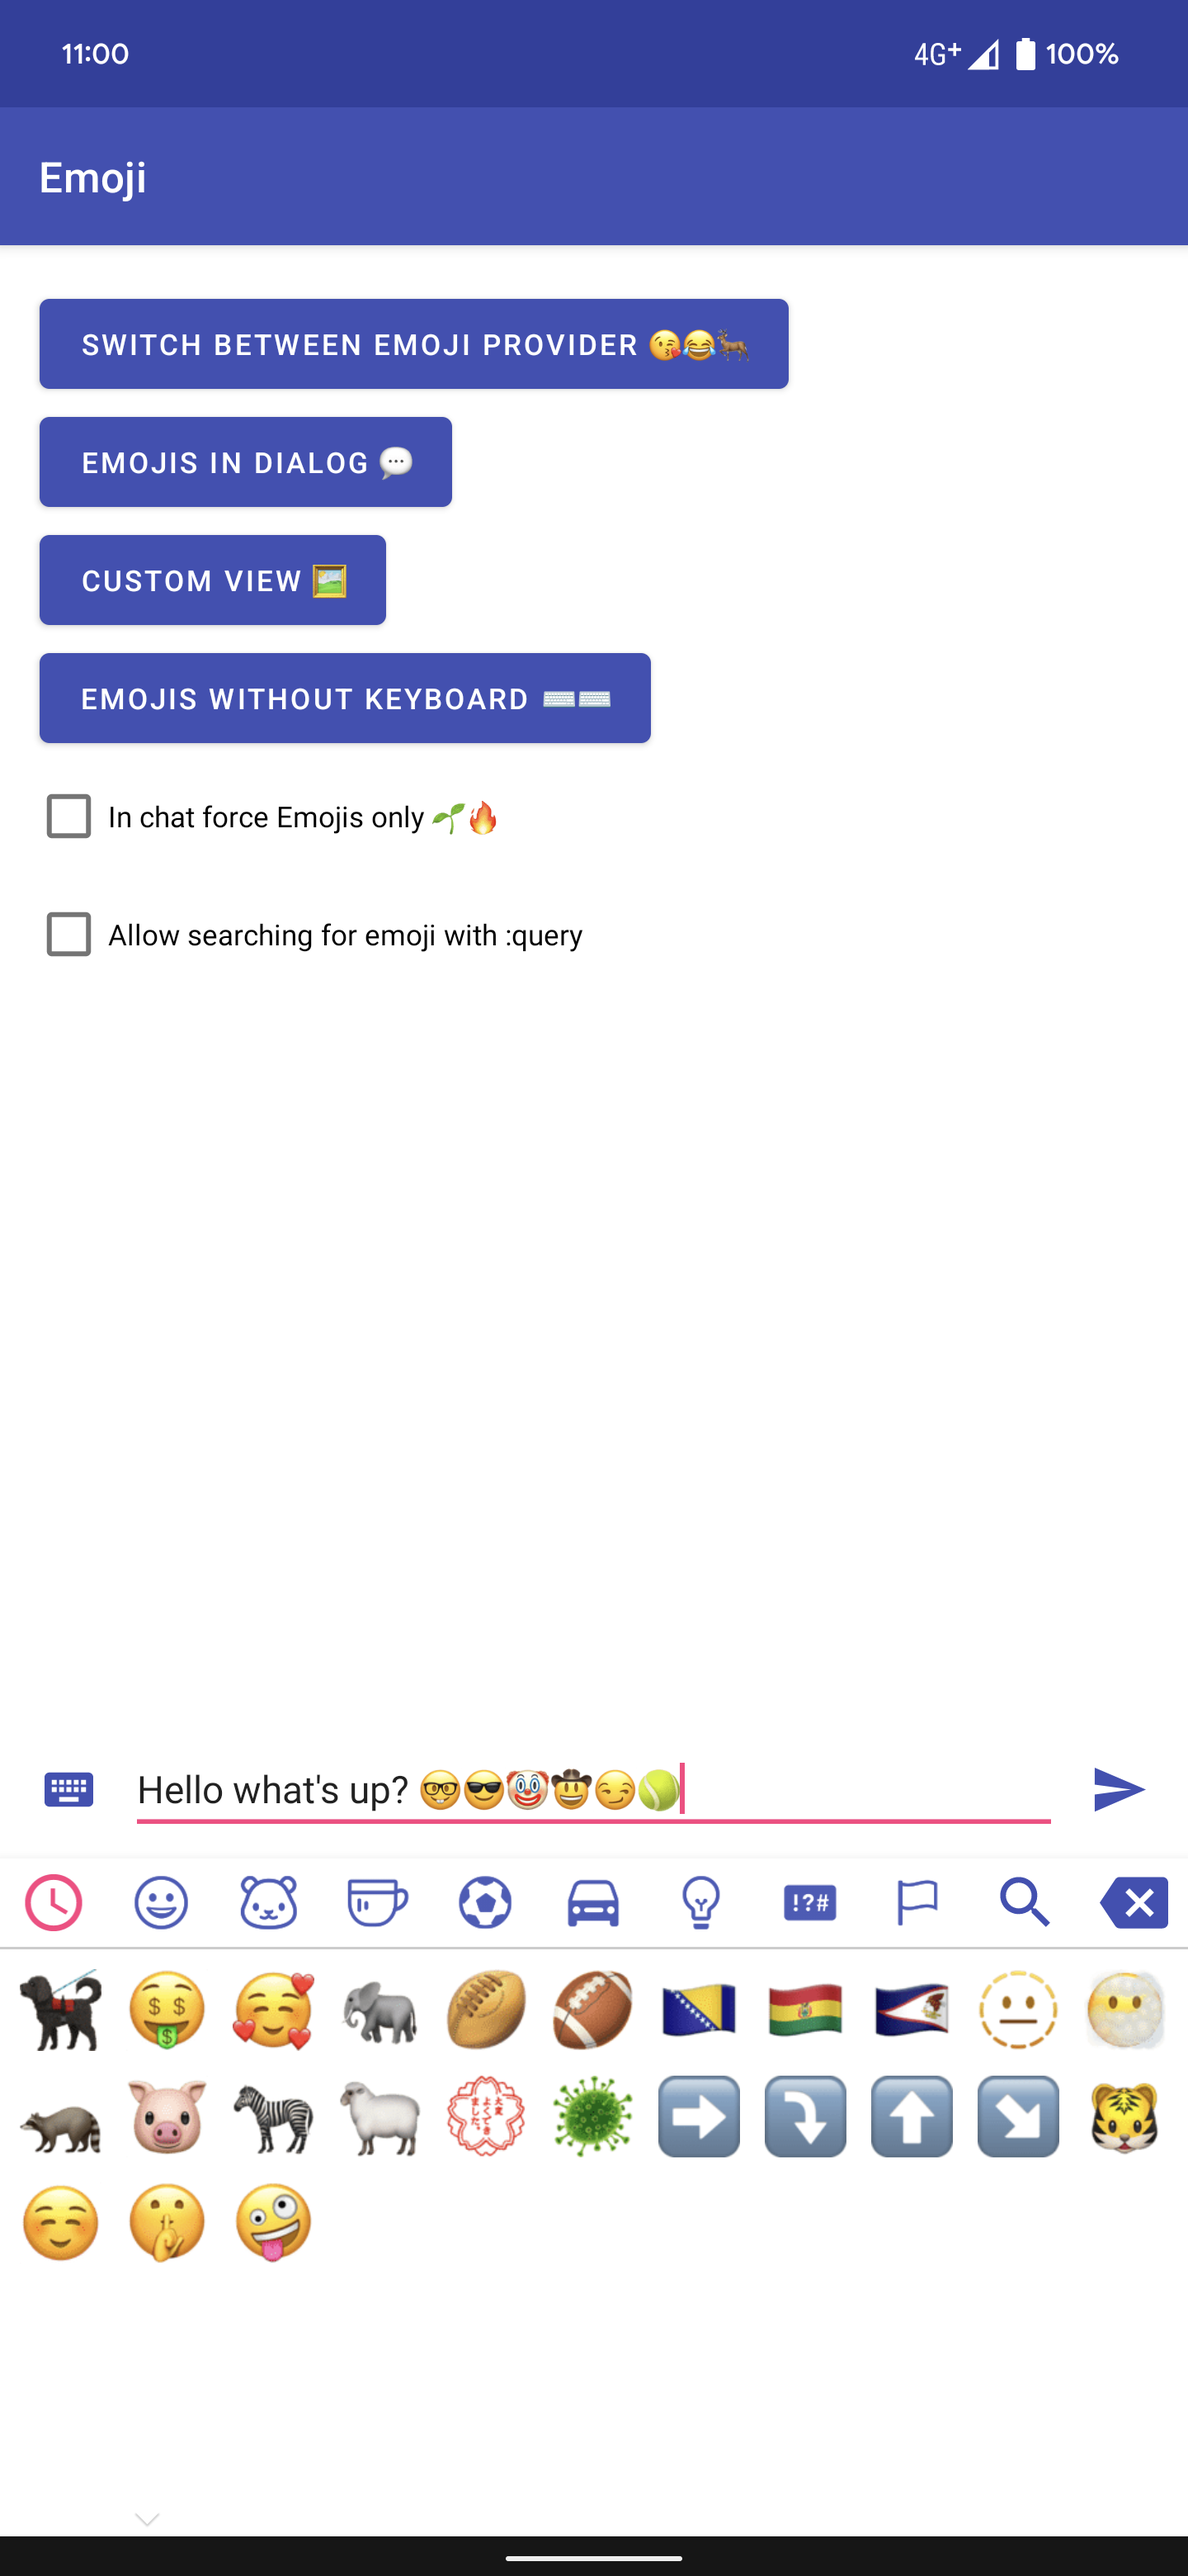
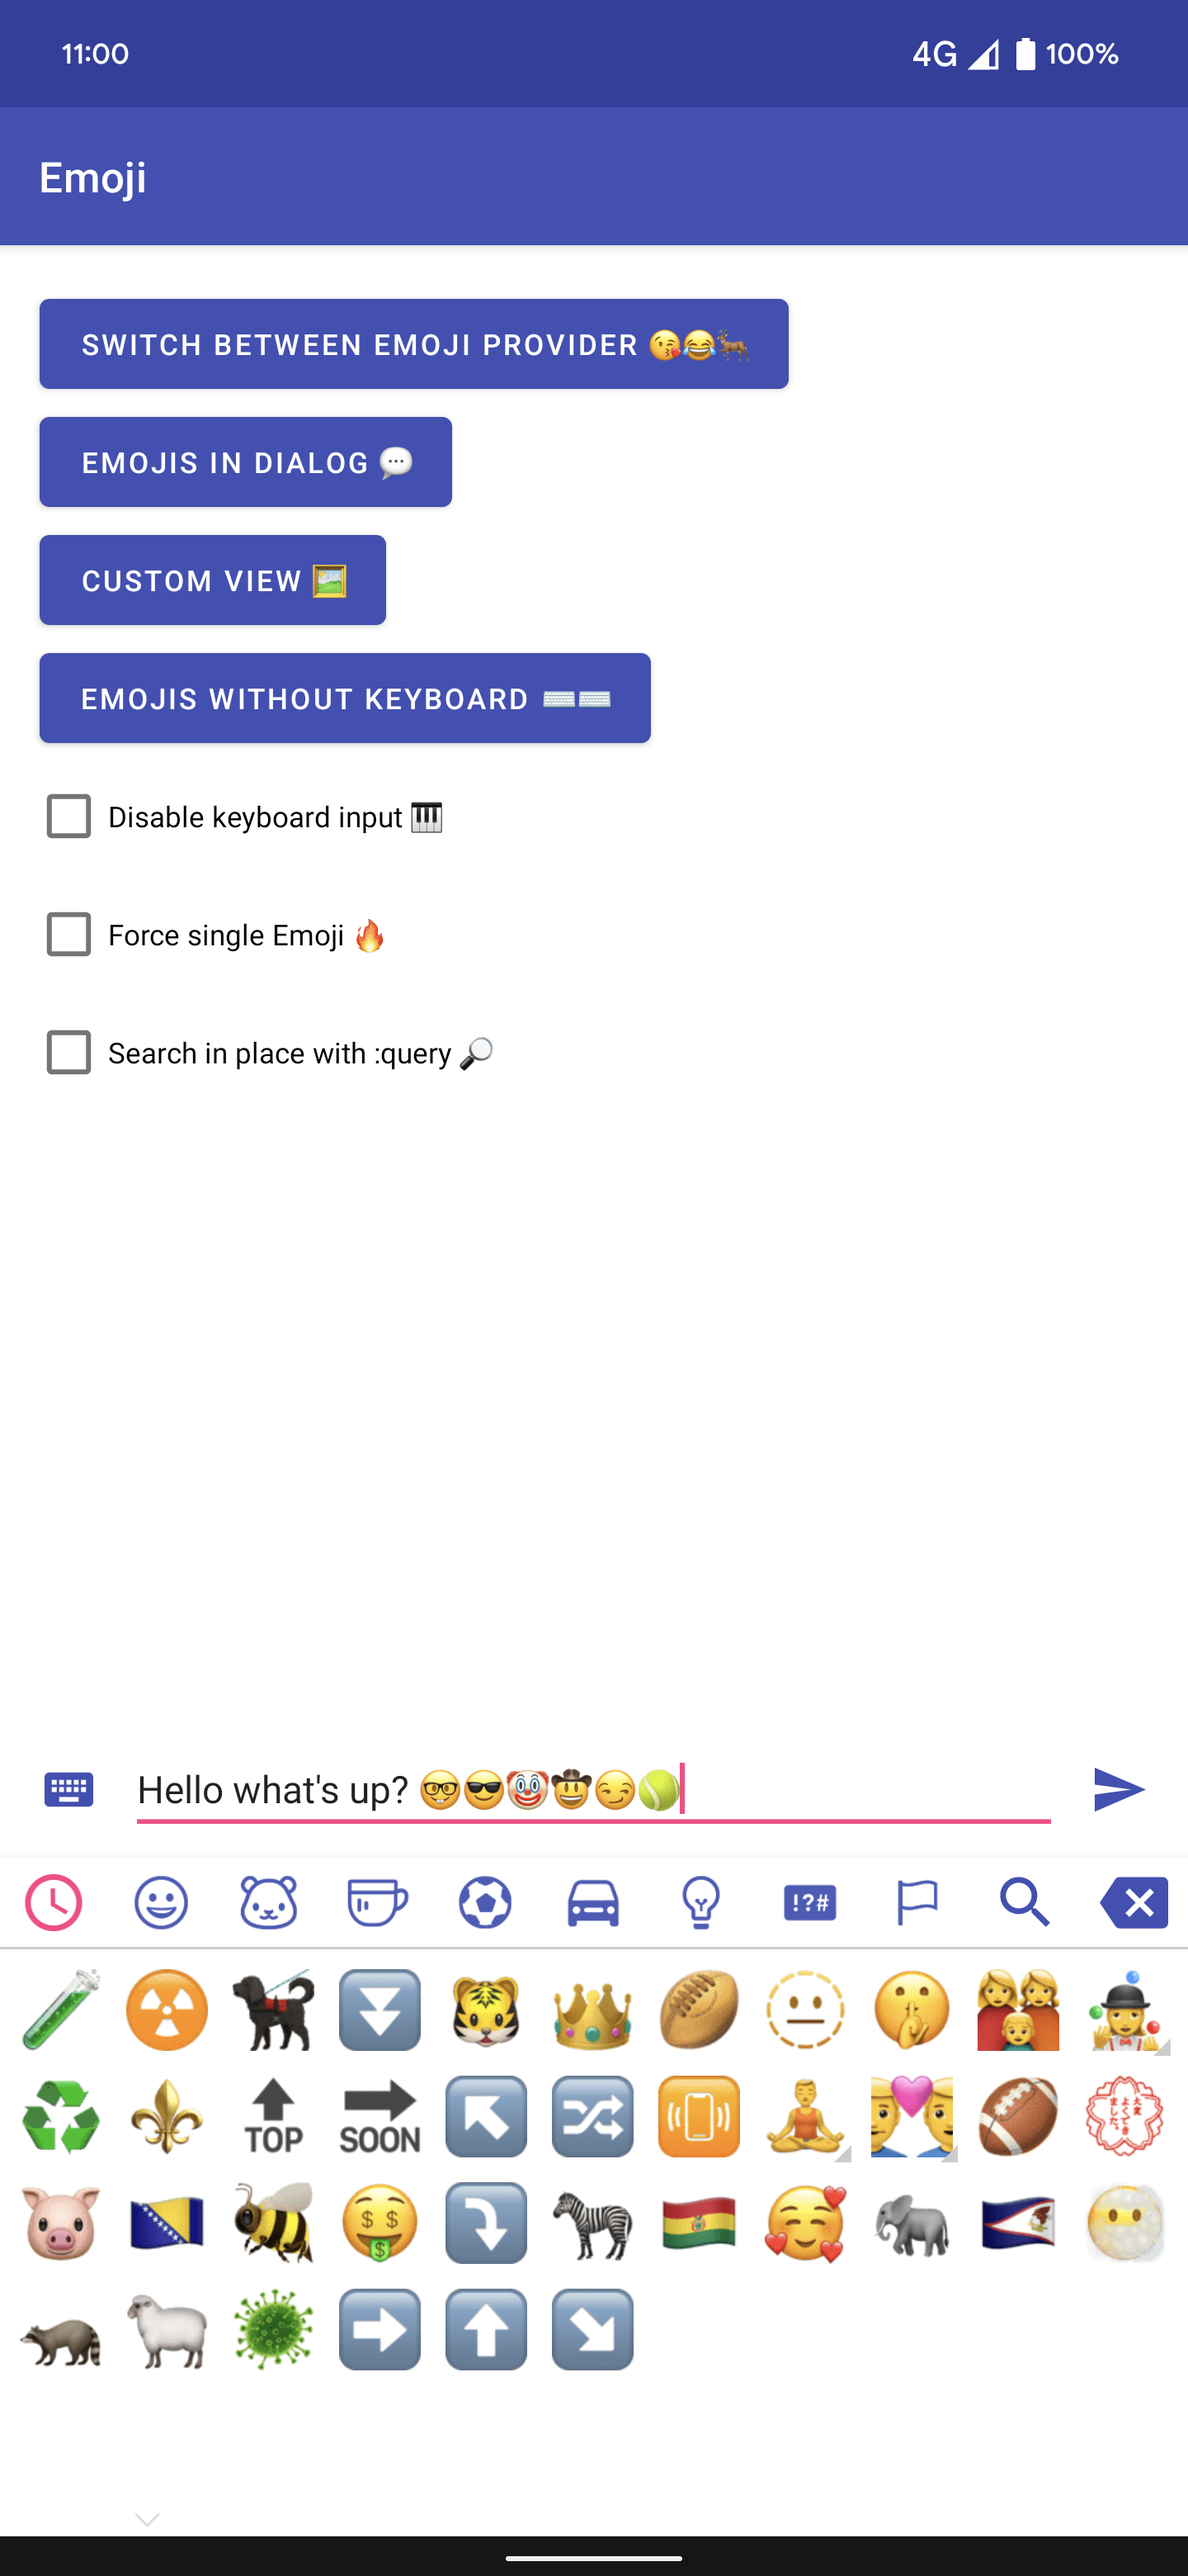
Ignore whitespace when using force single emoji & searching for an Emoji. (#776)

diff --git a/app/src/main/kotlin/com/vanniktech/emoji/sample/MainActivity.kt b/app/src/main/kotlin/com/vanniktech/emoji/sample/MainActivity.kt
@@ -38,6 +38,7 @@ import com.vanniktech.emoji.facebook.FacebookEmojiProvider
 import com.vanniktech.emoji.google.GoogleEmojiProvider
 import com.vanniktech.emoji.googlecompat.GoogleCompatEmojiProvider
 import com.vanniktech.emoji.installDisableKeyboardInput
+import com.vanniktech.emoji.installForceSingleEmoji
 import com.vanniktech.emoji.installSearchInPlace
 import com.vanniktech.emoji.ios.IosEmojiProvider
 import com.vanniktech.emoji.material.MaterialEmojiLayoutFactory
@@ -54,6 +55,7 @@ class MainActivity : AppCompatActivity() {
   private var emojiCompat: EmojiCompat? = null
   private var searchInPlaceEmojiTrait: EmojiTrait? = null
   private var disableKeyboardInputEmojiTrait: EmojiTrait? = null
+  private var forceSingleEmojiTrait: EmojiTrait? = null
 
   @SuppressLint("SetTextI18n")
   override fun onCreate(savedInstanceState: Bundle?) {
@@ -85,9 +87,10 @@ class MainActivity : AppCompatActivity() {
 
     binding.chatSend.setColorFilter(ContextCompat.getColor(this, R.color.colorPrimary), PorterDuff.Mode.SRC_IN)
     binding.chatEmoji.setColorFilter(ContextCompat.getColor(this, R.color.colorPrimary), PorterDuff.Mode.SRC_IN)
-    binding.forceEmojisOnly.setOnCheckedChangeListener { _, isChecked: Boolean ->
+    binding.disableKeyboardInput.setOnCheckedChangeListener { _, isChecked: Boolean ->
       if (isChecked) {
-        binding.chatEditText.clearFocus()
+        binding.searchInPlace.isChecked = false
+
         binding.chatEmoji.visibility = View.GONE
         disableKeyboardInputEmojiTrait = binding.chatEditText.installDisableKeyboardInput(emojiPopup)
       } else {
@@ -95,13 +98,30 @@ class MainActivity : AppCompatActivity() {
         disableKeyboardInputEmojiTrait?.uninstall()
       }
     }
-    binding.inPlaceEmojis.setOnCheckedChangeListener { _, isChecked: Boolean ->
+    binding.forceSingleEmoji.setOnCheckedChangeListener { _, isChecked: Boolean ->
       if (isChecked) {
+        binding.searchInPlace.isChecked = false
+
+        if (!binding.disableKeyboardInput.isChecked) {
+          binding.disableKeyboardInput.isChecked = true
+        }
+
+        forceSingleEmojiTrait = binding.chatEditText.installForceSingleEmoji()
+      } else {
+        forceSingleEmojiTrait?.uninstall()
+      }
+    }
+    binding.searchInPlace.setOnCheckedChangeListener { _, isChecked: Boolean ->
+      if (isChecked) {
+        binding.disableKeyboardInput.isChecked = false
+        binding.forceSingleEmoji.isChecked = false
+
         searchInPlaceEmojiTrait = binding.chatEditText.installSearchInPlace(emojiPopup)
       } else {
         searchInPlaceEmojiTrait?.uninstall()
       }
     }
+
     binding.chatEmoji.setOnClickListener { emojiPopup.toggle() }
     binding.chatSend.setOnClickListener {
       val text = binding.chatEditText.text.toString().trim { it <= ' ' }

diff --git a/emoji/src/main/kotlin/com/vanniktech/emoji/traits/ForceSingleEmojiTrait.kt b/emoji/src/main/kotlin/com/vanniktech/emoji/traits/ForceSingleEmojiTrait.kt
@@ -35,21 +35,21 @@ class ForceSingleEmojiTrait : EmojiTraitable {
         editText.removeTextChangedListener(this)
 
         val emoji = s.subSequence(start, start + count)
+          .trim() // Important, when we're coming from a search.
         editText.text = null
         editText.append(emoji)
+
         editText.addTextChangedListener(this)
       }
     }
 
-    editText.filters = editText.filters
-      .plus(OnlyEmojisInputFilter())
+    editText.filters = editText.filters.plus(OnlyEmojisInputFilter())
     editText.addTextChangedListener(listener)
 
     return object : EmojiTrait {
       override fun uninstall() {
         editText.filters = editText.filters
           .filterNot { it is OnlyEmojisInputFilter }
-          .toList()
           .toTypedArray()
         editText.removeTextChangedListener(listener)
       }

diff --git a/emoji/src/main/kotlin/com/vanniktech/emoji/traits/SearchInPlaceTrait.kt b/emoji/src/main/kotlin/com/vanniktech/emoji/traits/SearchInPlaceTrait.kt
@@ -58,8 +58,8 @@ class SearchInPlaceTrait(
               popup.show(
                 emojis = emojiPopup.searchEmoji.search(query),
                 delegate = {
-                  editText.text.replace(lastColon, s.length, it.unicode, 0, it.unicode.length)
-                  editText.text.append(" ")
+                  val new = "${it.unicode} "
+                  editText.text.replace(lastColon, s.length, new, 0, new.length)
                 },
               )
             } else {

diff --git a/app/src/main/kotlin/com/vanniktech/emoji/sample/CustomViewActivity.kt b/app/src/main/kotlin/com/vanniktech/emoji/sample/CustomViewActivity.kt
@@ -63,7 +63,7 @@ class CustomViewActivity : AppCompatActivity() {
     }
 
     fun setUpEmojiPopup() {
-      binding.onlyAllowSingleEmoji.setOnCheckedChangeListener { _, isChecked: Boolean ->
+      binding.forceSingleEmoji.setOnCheckedChangeListener { _, isChecked: Boolean ->
         if (isChecked) {
           forceSingleEmoji = binding.editText.installForceSingleEmoji()
         } else {
